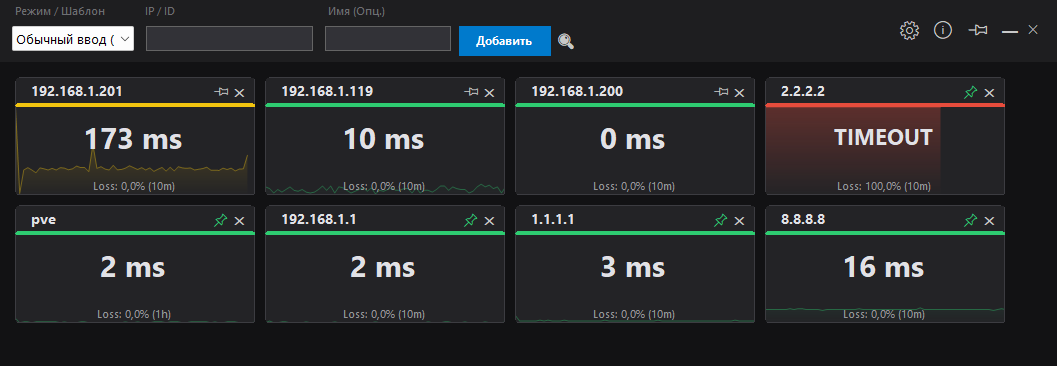
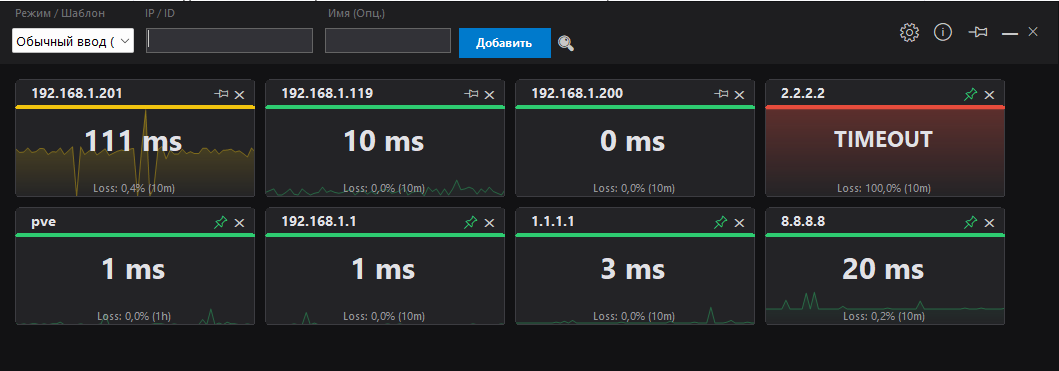
fix: иконка приложения теперь из exe (вместо SystemIcons.Application), DPI-манифест
- Form1.Icon: извлечение из exe вместо заглушки SystemIcons.Application
- App.config: DpiAwareness=PerMonitorV2 для корректного отображения на экранах с разным масштабированием

diff --git a/Form1.cs b/Form1.cs
@@ -82,7 +82,7 @@ namespace PingMonitor
             this.Text = Lang.Get("title");
             this.BackColor = Theme.BgWindow;
             this.StartPosition = FormStartPosition.CenterScreen;
-            this.Icon = SystemIcons.Application;
+            this.Icon = Icon.ExtractAssociatedIcon(Application.ExecutablePath) ?? SystemIcons.Application;
             this.Padding = new Padding(1);
             this.MinimumSize = new Size(MinWindowWidth, 150);
 

diff --git a/article.md b/article.md
@@ -1,0 +1,113 @@
+# «Поставь Grafana» — сказали они. А я написал свой мониторинг на 240 КБ
+
+*Как инженер техподдержки перестал пялиться в кучу окон ping и сделал одну простую штуку, которая работает боковым зрением.*
+
+---
+
+## Начну с главного
+
+Идея — моя. Реализация — вайбкодинг (да, я из тех, кто разговаривает с нейросеткой, пока она пишет код, а я пью кофе). И знаете что? Работает. Программа живёт, мониторит, никто не пострадал.
+
+**PingMonitor** — это одна маленькая Windows-программка для слежения за доступностью сети. Вместо десятка чёрных окон `ping -t` — одно окно с цветными карточками. Всё.
+
+Ссылка, если сразу хочется посмотреть: [github.com/AlexValyavin/PingMonitor](https://github.com/AlexValyavin/PingMonitor)
+
+---
+
+## Кто я и почему мне это понадобилось
+
+Я инженер технической поддержки. Рабочий день — это «упал сервер», «пропал интернет», «почему не пингуется». И знаете, что я понял за годы работы?
+
+**Мне не нужны красивые графики. Мне нужно боковым зрением понимать, что всё в порядке.**
+
+Вы когда-нибудь пробовали следить за десятью узлами через `ping -t`? Это десять окон на рабочем столе, в которых строчки летят вверх со скоростью пулемёта. Пока ты смотришь в одно — в другом что-то упало. Пока ты моргнул — потерял момент. Графики в Grafana — красиво, спору нет, но чтобы рассмотреть их, надо в них *вглядываться*. А у меня задача другая: сидишь, работаешь, а краем глаза видишь — зелёное всё, значит, жизнь прекрасна. Покраснело — ну всё, пошёл разбираться.
+
+Вот ровно под это я и сделал программу. Карточка горит зелёным — ок. Замигала красным — чини. Всё. Никакого чтения таблиц, никаких дашбордов.
+
+---
+
+## Почему не Grafana (вопрос, который мне задают чаще всего)
+
+Потому что Grafana — это как вызвать пожарную машину, чтобы потушить спичку.
+
+Серьёзно. Чтобы Grafana заработала, надо: поднять сервер или Docker, развернуть Prometheus, настроить blackbox exporter, потом ещё конфиги, потом ещё дашборды... Это неделя чтения документации. И всё это ради того, чтобы узнать, жив ли роутер.
+
+Для сравнения, моя программа: скачал файл → запустил → вписал IP → всё. Тридцать секунд, ноль зависимостей, ноль установки.
+
+| | Grafana + Prometheus | Моя пингалочка |
+|---|---|---|
+| Установка | Сервер, Docker, exporters | Скачал и запустил |
+| Время до первого пинга | Неделя доков | 30 секунд |
+| Память | Гигабайты | ~20 МБ |
+| Звуковой алерт «интернет упал» | Настраивать через Alertmanager | Встроенный, из коробки |
+
+Grafana — отличная штука. Для серверной фермы, для команды, для пятидесяти хостов. Но когда у тебя дома роутер, NAS и пара серверов — это избыточно. Это как купить КамАЗ, чтобы привезти пакет молока.
+
+---
+
+## Почему WinForms и почему «ничего лишнего»
+
+Тут важный момент, который я объясняю всем, кто спрашивает «а почему не на Electron, не на Qt, не на чём-нибудь современном?».
+
+**Потому что на рабочий ПК нельзя ставить ничего лишнего.**
+
+Я инженер ТП. На моём рабочем компьютере, как и у многих, висит куча ограничений: не поставить — то, нельзя ставить — это, а за установку вон того вообще выговор. Программа на .NET Framework (который в Windows есть с завода) — запускается без установки вообще. Скачал exe, запустил, работает. Никаких рантаймов, никаких Node.js, никаких «установите пожалуйста 200 мегабайт зависимостей».
+
+WinForms — это скучно, немодно и вообще прошлый век. Но у скучного есть суперспособность: **оно работает везде и не требует ничего ставить**. А для рабочей машины это главное.
+
+---
+
+## Что умеет (простыми словами)
+
+- **Цветные карточки.** Зелёная — всё ок. Оранжевая — пинги скачут или потери. Красная — узел молчит. Читается за полсекунды, боковым зрением.
+- **График прямо на карточке.** Небольшая волна задержек — видно, когда начались проблемы.
+- **Шаблоны.** Не надо вбивать 20 адресов руками. Задал маску `192.168.1.*` — и вводишь только последние цифры. Для подсетей — песня.
+- **Закрепление.** Закрепил нужные узлы — они переживают перезапуск. Пришёл на работу — всё уже на месте.
+- **Звук.** Интернет упал — программа пикнет. Сидишь за другим монитором, а тебя уже позвали.
+- **Период статистики.** Хочешь Loss% за 10 минут — пожалуйста. Хочешь за 6 часов — тоже можно.
+- **Поиск.** 30 узлов, а нужен один — ввёл три буквы, остальные спрятались.
+- **Тёмная и светлая темы.** Мониторинг у меня висит на втором мониторе всю ночь — глаза не выживут без тёмной.
+- **Русский и английский.** Рабочая машина на русском, дома можно на английском.
+
+---
+
+## Чем отличается от похожих программ
+
+**PingInfoView** — хорошая утилита, но это таблица. Строки, цифры, надо читать глазами. А мне надо *смотреть вполглаза*. Плюс там нет ни звуковых алертов, ни графиков на узел, ни шаблонов.
+
+**mtr / WinMTR** — отличная штука для разовой диагностики одного маршрута. Но это инструмент «поковырять и забыть», а не «следить постоянно». И окно на каждый узел.
+
+**Zabbix / Nagios** — серьёзные системы для серьёзных людей. Если у тебя 200 серверов — пожалуйста, ставь. Если у тебя роутер и NAS — зачем тебе агенты, веб-морда и админ, который это всё обслуживает?
+
+---
+
+## Честно о минусах
+
+Не буду строить из себя идеального. Программа простенькая, и это её фича и её ограничение одновременно:
+
+1. **Только Windows.** Линуксоиды, простите. Мне нужно на рабочую машину, а она на Windows.
+2. **История живёт в памяти.** Перезапустил программу — статистика обнулилась. Экспорт в файл — в планах.
+3. **Пингует только ICMP.** Проверку портов (открыт ли веб-сервер) пока не умеет. Но в планах.
+4. **Не сворачивается в трей.** Закрыл окно — мониторинг закончился. Трей — в планах.
+5. **Один компьютер, один пользователь.** Это не распределённая система. И не должна быть.
+
+---
+
+## Планы
+
+- Экспорт логов в CSV/JSON (чтобы потом показать начальнику «вот, в 3 часа ночи интернет отваливался»)
+- Пауза мониторинга для отдельных узлов
+- Проверка портов и HTTP
+- Сворачивание в трей с цветной иконкой
+
+---
+
+## Резюме
+
+Я инженер техподдержки. Моя работа — замечать проблемы раньше, чем их заметят пользователи. Для этого мне не нужен дашборд на весь экран. Мне нужна простая зелёная карточка, которая в нужный момент станет красной.
+
+Это простая программа для простой задачи. Ничего лишнего. Никакого энтерпрайза — просто пинг, цвет и звук. Идея моя, код собрал с нейросеткой, работает — и это главное.
+
+Если у вас похожая история — попробуйте, вдруг пригодится. Исходники открыты, Issues открыты, замечания принимаются.
+
+*Бесплатно, open source: [github.com/AlexValyavin/PingMonitor](https://github.com/AlexValyavin/PingMonitor)*
